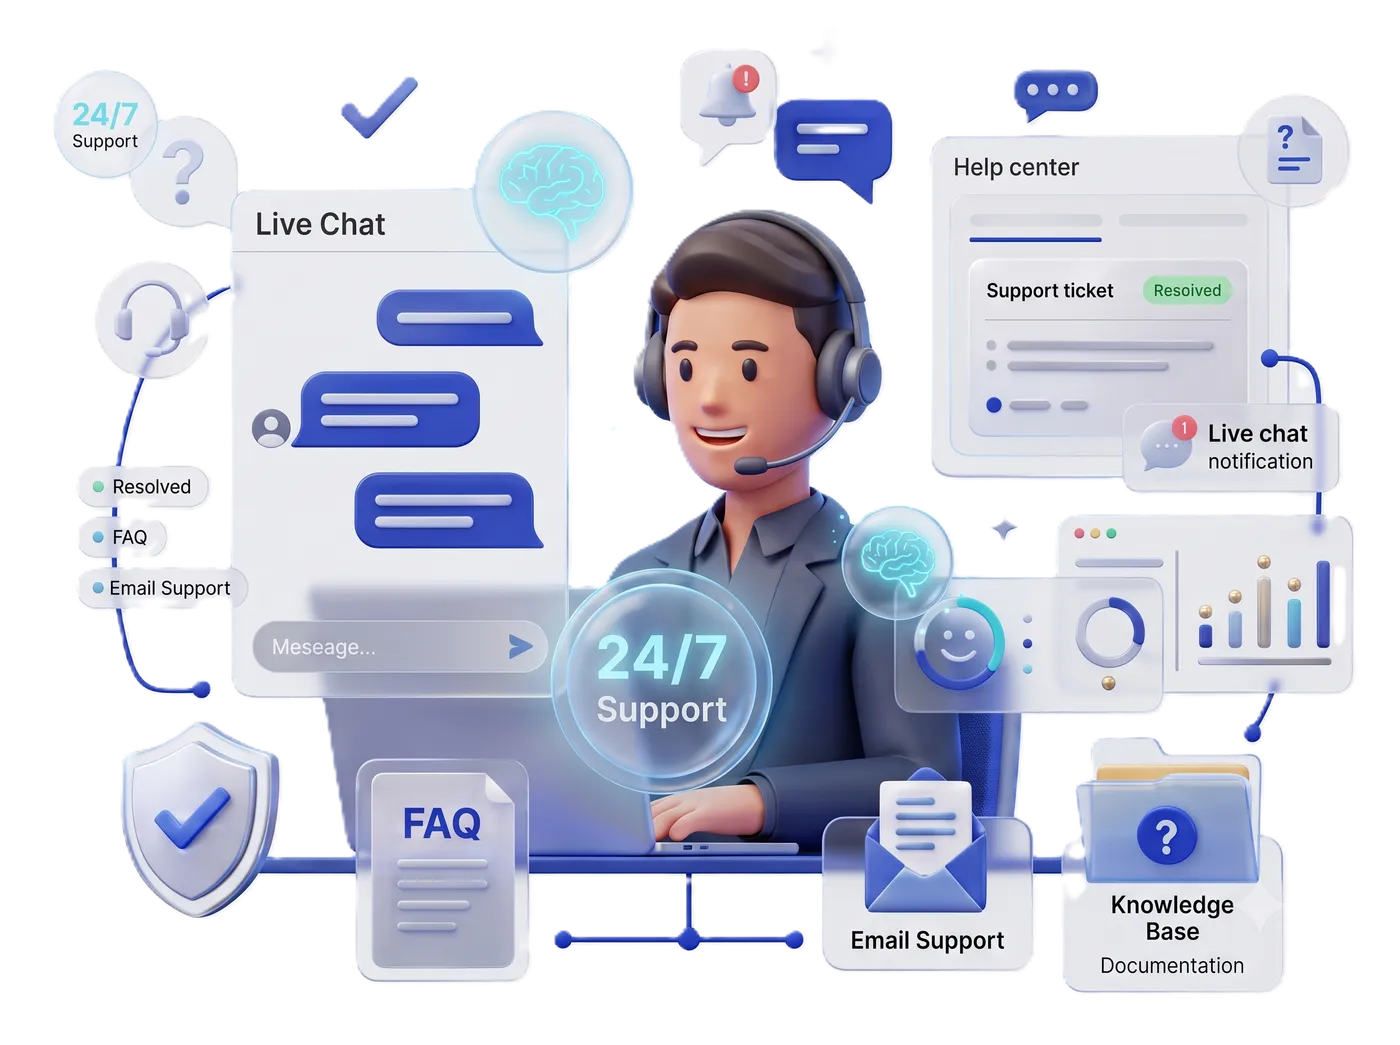
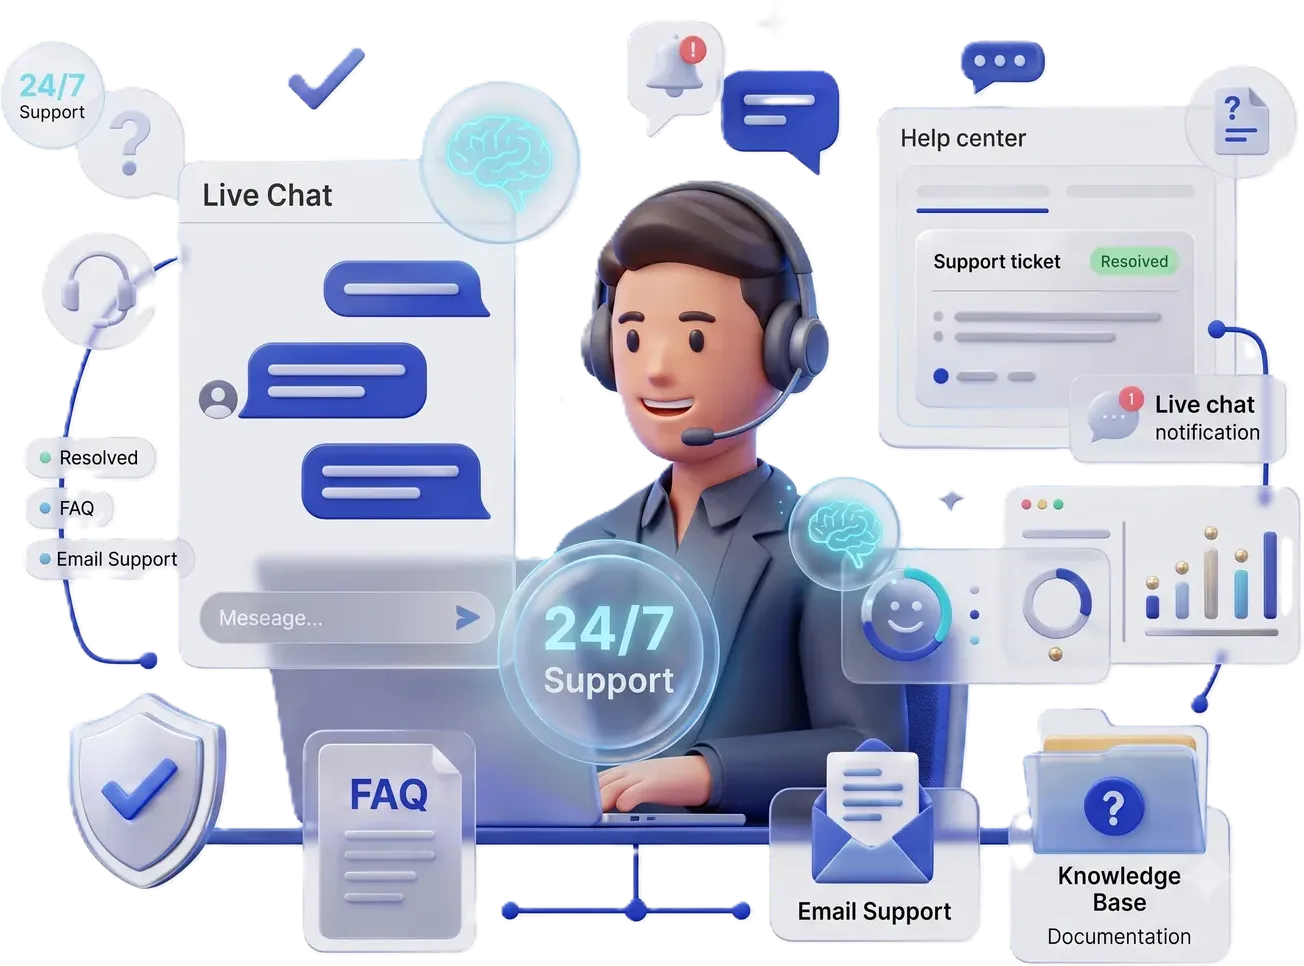
Fix input backgrounds and re-trim support illustration
All text inputs/textareas across the site (Contact, Support, Partner
Enquiry, Verify) were missing an explicit bg-white, so a browser/OS
forced dark mode rendered them black-on-black with unreadable typed
text. Added bg-white to every field for a consistent light appearance
regardless of system theme. Also re-trimmed the contact support
illustration's baked-in whitespace so it renders centered instead of
skewed to the right.

diff --git a/src/components/partner/EnquiryForm.tsx b/src/components/partner/EnquiryForm.tsx
@@ -100,7 +100,7 @@ export default function EnquiryForm() {
                     value={form.orgName}
                     onChange={(e) => setForm({ ...form, orgName: e.target.value })}
                     placeholder="Enter your organization name"
-                    className="mt-1.5 w-full rounded-lg border border-navy/15 px-3.5 py-2.5 text-sm text-navy outline-none transition-shadow focus:border-royal/40 focus:shadow-sm"
+                    className="mt-1.5 w-full rounded-lg border border-navy/15 bg-white px-3.5 py-2.5 text-sm text-navy outline-none transition-shadow focus:border-royal/40 focus:shadow-sm"
                   />
                 </div>
 
@@ -129,7 +129,7 @@ export default function EnquiryForm() {
                       value={form.fullName}
                       onChange={(e) => setForm({ ...form, fullName: e.target.value })}
                       placeholder="Enter your full name"
-                      className="mt-1.5 w-full rounded-lg border border-navy/15 px-3.5 py-2.5 text-sm text-navy outline-none transition-shadow focus:border-royal/40 focus:shadow-sm"
+                      className="mt-1.5 w-full rounded-lg border border-navy/15 bg-white px-3.5 py-2.5 text-sm text-navy outline-none transition-shadow focus:border-royal/40 focus:shadow-sm"
                     />
                   </div>
                   <div>
@@ -141,7 +141,7 @@ export default function EnquiryForm() {
                       value={form.email}
                       onChange={(e) => setForm({ ...form, email: e.target.value })}
                       placeholder="[email redacted]"
-                      className="mt-1.5 w-full rounded-lg border border-navy/15 px-3.5 py-2.5 text-sm text-navy outline-none transition-shadow focus:border-royal/40 focus:shadow-sm"
+                      className="mt-1.5 w-full rounded-lg border border-navy/15 bg-white px-3.5 py-2.5 text-sm text-navy outline-none transition-shadow focus:border-royal/40 focus:shadow-sm"
                     />
                   </div>
                 </div>
@@ -156,7 +156,7 @@ export default function EnquiryForm() {
                       value={form.phone}
                       onChange={(e) => setForm({ ...form, phone: e.target.value })}
                       placeholder="Enter your contact number"
-                      className="mt-1.5 w-full rounded-lg border border-navy/15 px-3.5 py-2.5 text-sm text-navy outline-none transition-shadow focus:border-royal/40 focus:shadow-sm"
+                      className="mt-1.5 w-full rounded-lg border border-navy/15 bg-white px-3.5 py-2.5 text-sm text-navy outline-none transition-shadow focus:border-royal/40 focus:shadow-sm"
                     />
                   </div>
                   <div>
@@ -168,7 +168,7 @@ export default function EnquiryForm() {
                       value={form.website}
                       onChange={(e) => setForm({ ...form, website: e.target.value })}
                       placeholder="Enter organization website"
-                      className="mt-1.5 w-full rounded-lg border border-navy/15 px-3.5 py-2.5 text-sm text-navy outline-none transition-shadow focus:border-royal/40 focus:shadow-sm"
+                      className="mt-1.5 w-full rounded-lg border border-navy/15 bg-white px-3.5 py-2.5 text-sm text-navy outline-none transition-shadow focus:border-royal/40 focus:shadow-sm"
                     />
                   </div>
                 </div>
@@ -229,7 +229,7 @@ export default function EnquiryForm() {
                     value={form.requirements}
                     onChange={(e) => setForm({ ...form, requirements: e.target.value })}
                     placeholder="Tell us about your candidates, certification requirements, or collaboration goals..."
-                    className="mt-1.5 w-full resize-none rounded-lg border border-navy/15 px-3.5 py-2.5 text-sm text-navy outline-none transition-shadow focus:border-royal/40 focus:shadow-sm"
+                    className="mt-1.5 w-full resize-none rounded-lg border border-navy/15 bg-white px-3.5 py-2.5 text-sm text-navy outline-none transition-shadow focus:border-royal/40 focus:shadow-sm"
                   />
                 </div>
 

diff --git a/src/components/help/ContactSupport.tsx b/src/components/help/ContactSupport.tsx
@@ -117,7 +117,7 @@ export default function ContactSupport() {
                       value={form.fullName}
                       onChange={(e) => setForm({ ...form, fullName: e.target.value })}
                       placeholder="Enter your full name"
-                      className="mt-1.5 w-full rounded-lg border border-navy/15 px-3.5 py-2.5 text-sm text-navy outline-none transition-shadow focus:border-royal/40 focus:shadow-sm"
+                      className="mt-1.5 w-full rounded-lg border border-navy/15 bg-white px-3.5 py-2.5 text-sm text-navy outline-none transition-shadow focus:border-royal/40 focus:shadow-sm"
                     />
                   </div>
                   <div>
@@ -129,7 +129,7 @@ export default function ContactSupport() {
                       value={form.email}
                       onChange={(e) => setForm({ ...form, email: e.target.value })}
                       placeholder="Enter your email address"
-                      className="mt-1.5 w-full rounded-lg border border-navy/15 px-3.5 py-2.5 text-sm text-navy outline-none transition-shadow focus:border-royal/40 focus:shadow-sm"
+                      className="mt-1.5 w-full rounded-lg border border-navy/15 bg-white px-3.5 py-2.5 text-sm text-navy outline-none transition-shadow focus:border-royal/40 focus:shadow-sm"
                     />
                   </div>
                 </div>
@@ -159,7 +159,7 @@ export default function ContactSupport() {
                     value={form.certOrVoucher}
                     onChange={(e) => setForm({ ...form, certOrVoucher: e.target.value })}
                     placeholder="Enter Certificate ID or Voucher Code"
-                    className="mt-1.5 w-full rounded-lg border border-navy/15 px-3.5 py-2.5 text-sm text-navy outline-none transition-shadow focus:border-royal/40 focus:shadow-sm"
+                    className="mt-1.5 w-full rounded-lg border border-navy/15 bg-white px-3.5 py-2.5 text-sm text-navy outline-none transition-shadow focus:border-royal/40 focus:shadow-sm"
                   />
                 </div>
 
@@ -171,7 +171,7 @@ export default function ContactSupport() {
                     value={form.subject}
                     onChange={(e) => setForm({ ...form, subject: e.target.value })}
                     placeholder="Briefly describe your issue"
-                    className="mt-1.5 w-full rounded-lg border border-navy/15 px-3.5 py-2.5 text-sm text-navy outline-none transition-shadow focus:border-royal/40 focus:shadow-sm"
+                    className="mt-1.5 w-full rounded-lg border border-navy/15 bg-white px-3.5 py-2.5 text-sm text-navy outline-none transition-shadow focus:border-royal/40 focus:shadow-sm"
                   />
                 </div>
 
@@ -184,7 +184,7 @@ export default function ContactSupport() {
                     value={form.message}
                     onChange={(e) => setForm({ ...form, message: e.target.value })}
                     placeholder="Tell us more about the issue you're experiencing..."
-                    className="mt-1.5 w-full resize-none rounded-lg border border-navy/15 px-3.5 py-2.5 text-sm text-navy outline-none transition-shadow focus:border-royal/40 focus:shadow-sm"
+                    className="mt-1.5 w-full resize-none rounded-lg border border-navy/15 bg-white px-3.5 py-2.5 text-sm text-navy outline-none transition-shadow focus:border-royal/40 focus:shadow-sm"
                   />
                 </div>
 

diff --git a/src/components/contact/ContactForm.tsx b/src/components/contact/ContactForm.tsx
@@ -148,7 +148,7 @@ export default function ContactForm() {
                       value={form.fullName}
                       onChange={(e) => setForm({ ...form, fullName: e.target.value })}
                       placeholder="Enter your full name"
-                      className="mt-1.5 w-full rounded-lg border border-navy/15 px-3.5 py-2.5 text-sm text-navy outline-none transition-shadow focus:border-royal/40 focus:shadow-sm"
+                      className="mt-1.5 w-full rounded-lg border border-navy/15 bg-white px-3.5 py-2.5 text-sm text-navy outline-none transition-shadow focus:border-royal/40 focus:shadow-sm"
                     />
                   </div>
                   <div>
@@ -160,7 +160,7 @@ export default function ContactForm() {
                       value={form.email}
                       onChange={(e) => setForm({ ...form, email: e.target.value })}
                       placeholder="Enter your email address"
-                      className="mt-1.5 w-full rounded-lg border border-navy/15 px-3.5 py-2.5 text-sm text-navy outline-none transition-shadow focus:border-royal/40 focus:shadow-sm"
+                      className="mt-1.5 w-full rounded-lg border border-navy/15 bg-white px-3.5 py-2.5 text-sm text-navy outline-none transition-shadow focus:border-royal/40 focus:shadow-sm"
                     />
                   </div>
                 </div>
@@ -189,7 +189,7 @@ export default function ContactForm() {
                     value={form.subject}
                     onChange={(e) => setForm({ ...form, subject: e.target.value })}
                     placeholder="Briefly describe your message"
-                    className="mt-1.5 w-full rounded-lg border border-navy/15 px-3.5 py-2.5 text-sm text-navy outline-none transition-shadow focus:border-royal/40 focus:shadow-sm"
+                    className="mt-1.5 w-full rounded-lg border border-navy/15 bg-white px-3.5 py-2.5 text-sm text-navy outline-none transition-shadow focus:border-royal/40 focus:shadow-sm"
                   />
                 </div>
 
@@ -202,7 +202,7 @@ export default function ContactForm() {
                     value={form.message}
                     onChange={(e) => setForm({ ...form, message: e.target.value })}
                     placeholder="Tell us how we can help..."
-                    className="mt-1.5 w-full resize-none rounded-lg border border-navy/15 px-3.5 py-2.5 text-sm text-navy outline-none transition-shadow focus:border-royal/40 focus:shadow-sm"
+                    className="mt-1.5 w-full resize-none rounded-lg border border-navy/15 bg-white px-3.5 py-2.5 text-sm text-navy outline-none transition-shadow focus:border-royal/40 focus:shadow-sm"
                   />
                 </div>
 

diff --git a/src/components/verify/VerifyHero.tsx b/src/components/verify/VerifyHero.tsx
@@ -70,7 +70,7 @@ export default function VerifyHero({
                 value={certId}
                 onChange={(e) => onChange(e.target.value)}
                 placeholder="Enter your Certificate ID"
-                className="w-full flex-1 rounded-lg border border-navy/15 px-4 py-3.5 text-sm text-navy outline-none transition-shadow focus:border-royal/40 focus:shadow-sm"
+                className="w-full flex-1 rounded-lg border border-navy/15 bg-white px-4 py-3.5 text-sm text-navy outline-none transition-shadow focus:border-royal/40 focus:shadow-sm"
               />
               <button
                 type="submit"